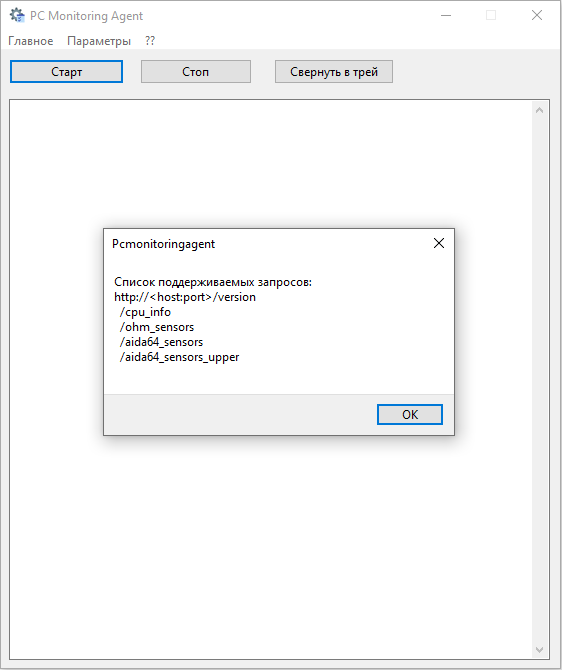
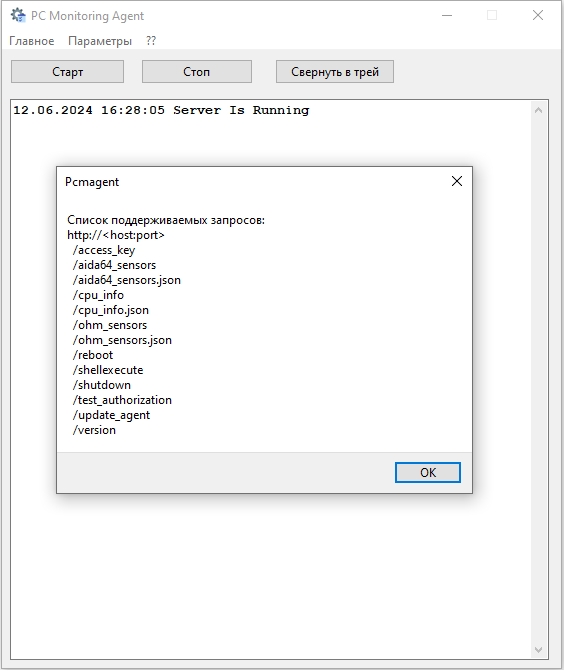
1.1.0.0

diff --git a/README.md b/README.md
@@ -5,11 +5,19 @@
 **[ENG] This is a REST API server that broadcasts computer sensor readings such as temperature, fan speed, voltage, etc. from AIDA64 programs and "Open Hardware Monitor" to JSON format via HTTP**
 
 **[rus] Список поддерживаемых запросов; [eng] List of supported queries:**
- - http://host:port/version
- - http://host:port/cpu_info
- - http://host:port/ohm_sensors
- - http://host:port/aida64_sensors
- - http://host:port/aida64_sensors_upper
+- host:port/access_key
+- host:port/aida64_sensors
+- host:port/aida64_sensors.json
+- host:port/cpu_info
+- host:port/cpu_info.json 
+- host:port/ohm_sensors
+- host:port/ohm_sensors.json
+- host:port/reboot
+- host:port/shellexecute
+- host:port/shutdown
+- host:port/test_authorization
+- host:port/update_agent
+- host:port/version
  
 ### **Настройка AIDA64 для экспорта данных сенсоров**
 
